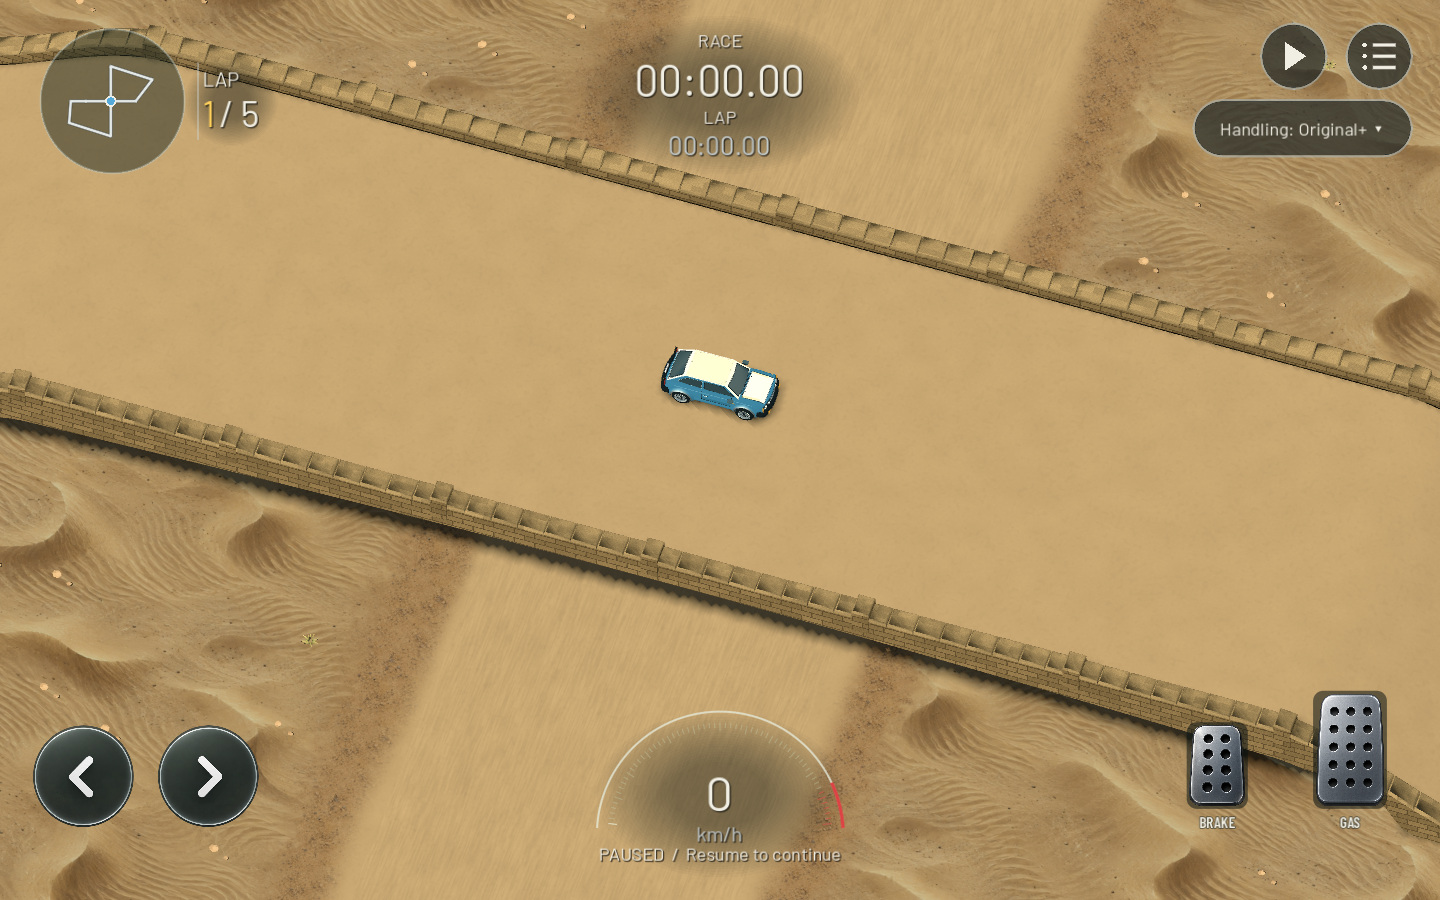
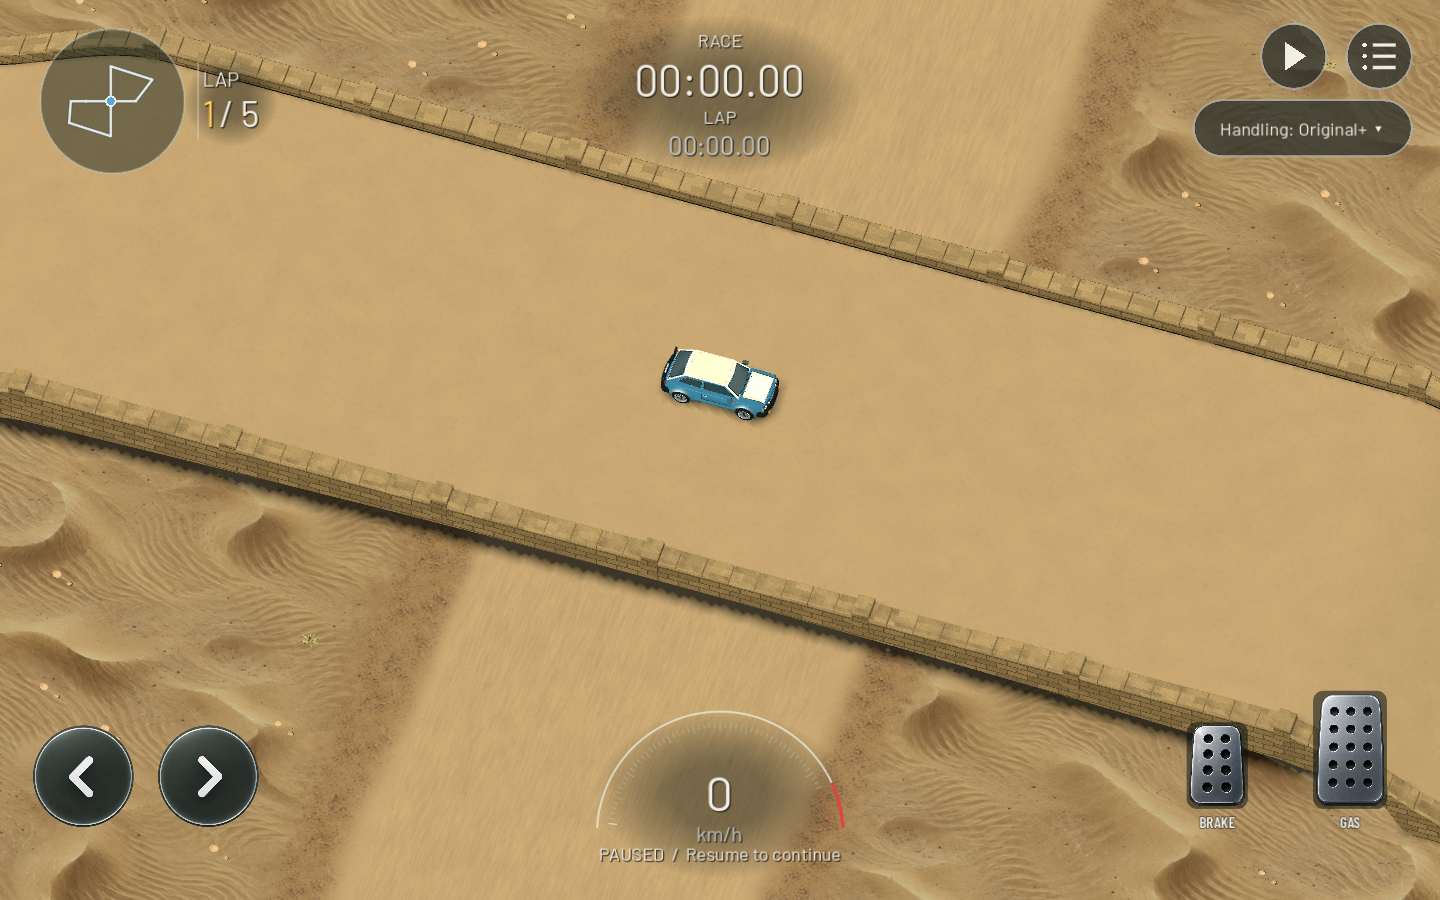
Fix recessed shading on desert bridge coping stones

diff --git a/docs/DESERT_BRIDGES.md b/docs/DESERT_BRIDGES.md
@@ -17,3 +17,9 @@ Actual commands, run using `powershell -NoProfile -ExecutionPolicy Bypass -File 
 Desktop evidence inspected: [gameplay](evidence/desert-bridges/gameplay.png), [overview](evidence/desert-bridges/overview.png). This is an isolated synthetic crossing fixture, not a player save. The overview camera is capture-only. No player files are written.
 
 Remaining acceptance: owner's visual review, phone driving under/over bridges and GPU/frame-time measurements. No phone test, Android export, installation or device discovery performed. Long spans use a shallow uninterrupted arch to preserve arbitrary ground crossings rather than the reference's multiple supported arches. No claim of exact hand-painted reference fidelity or measured mobile cost.
+
+## Railing cap correction ? desert-bridge-2
+
+Owner rejected the recessed tile appearance on the tops. Disabled shared smoothing on the desert stone batch so planar tops and bevels have independent normals; reduced bevel width from up to 5.5 cm to 2.2 cm. Changed `game/track/desert_bridge_visual.gd`; refreshed both evidence PNGs and progress documents. Requirements V02/V04/V05/Q01.
+
+Actual command: `powershell -NoProfile -ExecutionPolicy Bypass -File scripts/dev.ps1 -Action CaptureDesertBridge` passed on pinned Godot 4.7.2. Gameplay image inspected: flat solid coping tops, narrow edge highlights, no former bowl-like shading. Capture also asserts unchanged collision cells and sampled underpass clearance. No physics change or new regression suite required for this shading/bevel correction. No phone test/export performed; owner visual acceptance and device review remain.

diff --git a/docs/PHASE_0_PLAN.md b/docs/PHASE_0_PLAN.md
@@ -1,5 +1,7 @@
 # Phase 0: specification review and first slice
 
+2026-09-24 V02/V04/V05/Q01: desert-bridge-2 fixes recessed-looking railing caps with flat face normals and narrower stone bevels. CaptureDesertBridge passes; desktop evidence inspected, collision/clearance assertions pass. No phone test/export. See docs/DESERT_BRIDGES.md.
+
 2026-09-24 V02/V04/V05/Q01: grass-clippings-2 replaces bright box debris with folded tapered blades, natural lit colours and low two-axis tumbling; capacity reduced 20%. Soil 163, graphical soil 172, desert 53 and graphical grass 32 checks pass. Desktop evidence inspected; no device test/export. See docs/GRASS_CLIPPINGS.md.
 
 2026-09-24 V02/V04/V05/Q01: desert-bridge-1 replaces desert steel rails with sandstone parapets, bevelled coping, capped posts and clearance-preserving shallow arches. Construction 82, bridge contacts 16 and desert 53 checks pass; two desktop captures inspected. No phone test/export. See docs/DESERT_BRIDGES.md.

diff --git a/DEVELOPMENT_STATUS.md b/DEVELOPMENT_STATUS.md
@@ -1,5 +1,7 @@
 # Development status
 
+2026-09-24 V02/V04/V05/Q01: desert-bridge-2 fixes recessed-looking railing caps with flat face normals and narrower stone bevels. CaptureDesertBridge passes; desktop evidence inspected, collision/clearance assertions pass. No phone test/export. See docs/DESERT_BRIDGES.md.
+
 2026-09-24 V02/V04/V05/Q01: grass-clippings-2 replaces bright box debris with folded tapered blades, natural lit colours and low two-axis tumbling; capacity reduced 20%. Soil 163, graphical soil 172, desert 53 and graphical grass 32 checks pass. Desktop evidence inspected; no device test/export. See docs/GRASS_CLIPPINGS.md.
 
 2026-09-24 V02/V04/V05/Q01: desert-bridge-1 replaces desert steel rails with sandstone parapets, bevelled coping, capped posts and clearance-preserving shallow arches. Construction 82, bridge contacts 16 and desert 53 checks pass; two desktop captures inspected. No phone test/export. See docs/DESERT_BRIDGES.md.
